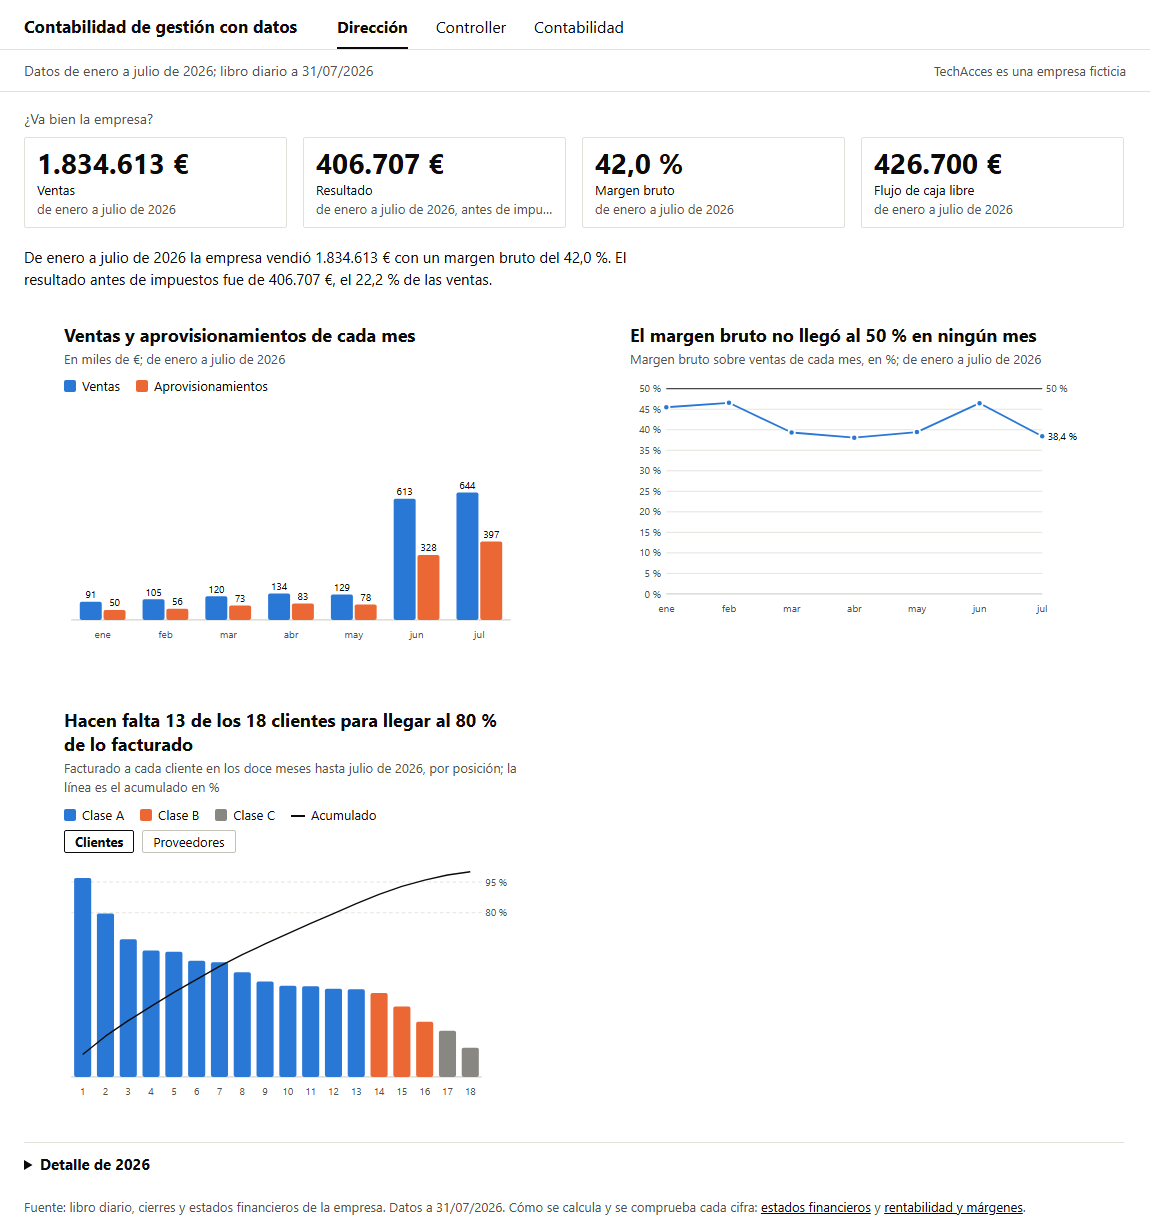
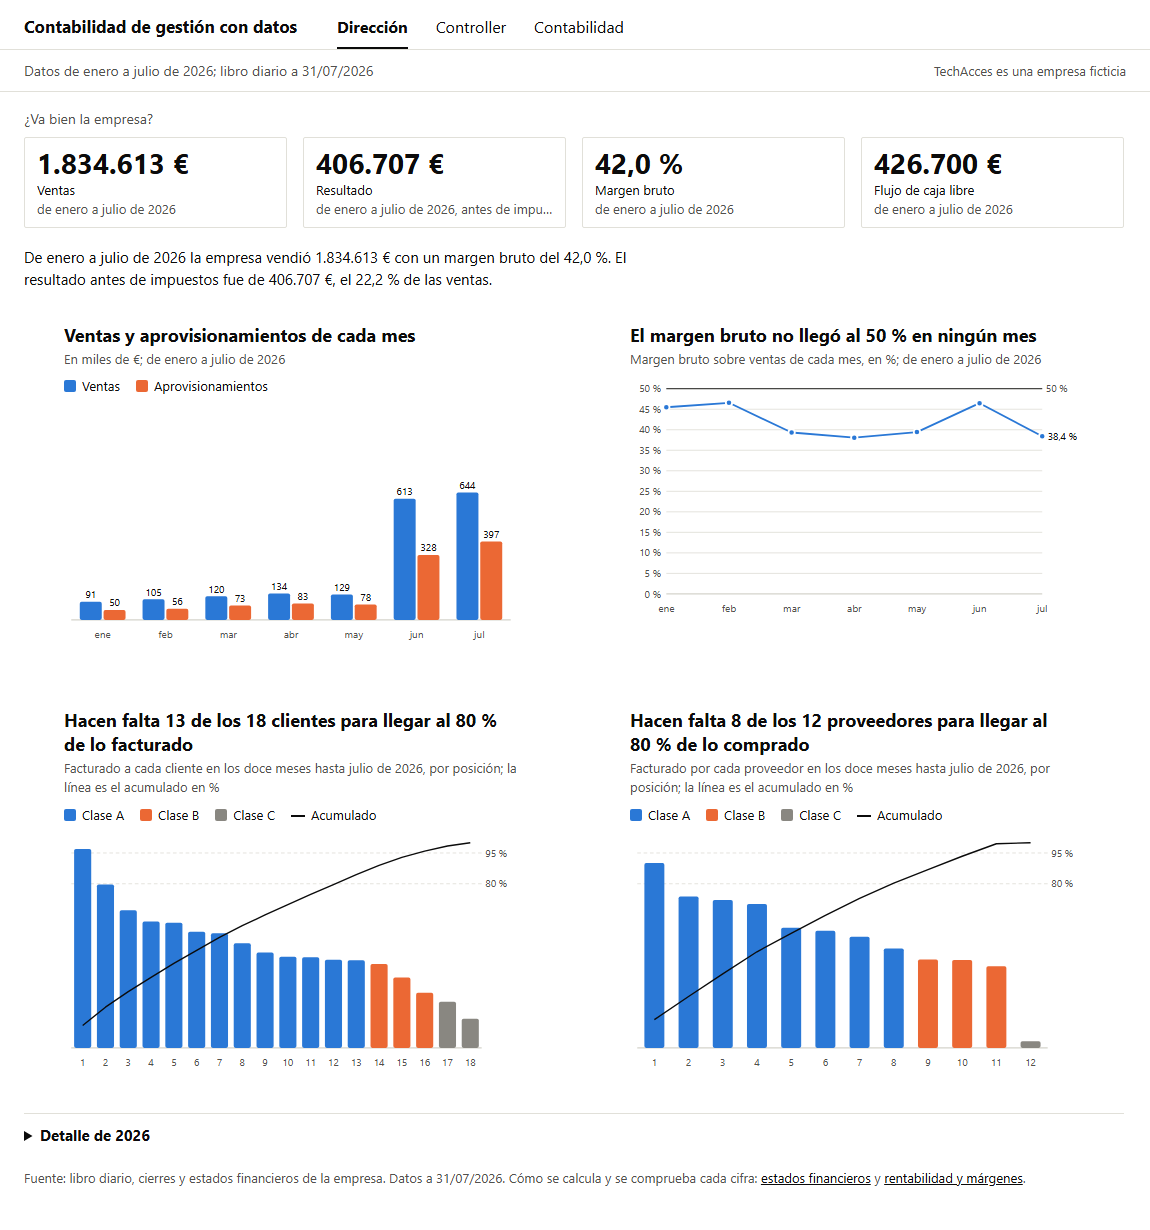
Web: Pareto de clientes y de proveedores lado a lado
El Pareto ocupaba solo la mitad de su fila y los proveedores quedaban detrás de un
botón. Ahora van los dos gráficos juntos, sin selector, como en Power BI. Imagen de
la vista de Dirección rehecha.

Changed region(s): [[0.0304, 0.6797, 0.8826, 0.9886], [0.5478, 0.5561, 0.913, 0.865]]

diff --git a/cuadro.js b/cuadro.js
@@ -1,5 +1,5 @@
 /* Cuadro de mando de contabilidad de gestión.
-   Lee los CSV de datos/ (los mismos que lee el informe de Power BI), dibuja tres pestañas y guarda la pestaña y el
+   Lee los CSV de datos/ (los mismos que lee el informe de Power BI), dibuja tres pestañas y guarda la pestaña
    en la dirección de la página. Sin librerías: SVG dibujado aquí. Todo texto que viene de los datos entra con
    textContent. */
 "use strict";
@@ -14,7 +14,7 @@ const FICHEROS = ["d_ventas_resultado", "d_margenes", "d_margen_bruto_mensual", 
 const ESTADO = { OK: "En orden", AVISO: "Aviso", SIN_DATO: "Sin dato" };
 
 let D = {};                       // los CSV leídos, por nombre
-const estado = { pestana: "direccion", lado: "clientes" };
+const estado = { pestana: "direccion" };
 const CLASE = { A: AZUL, B: NARANJA, C: GRIS };
 
 // ===== Números y textos a la española =====
@@ -276,7 +276,8 @@ function dibujarDireccion() {
     [{ nombre: "Margen bruto", color: AZUL, valores: meses.map(f => Number(f.margen_bruto_pct)) }],
     { unidad: " %", referencia: 50, rotuloReferencia: "50 %", rotularFinal: true, desdeCero: true });
 
-  dibujarPareto(a);
+  dibujarPareto(a, "clientes", "dir-g3");
+  dibujarPareto(a, "proveedores", "dir-g4");
 
   const det = document.getElementById("dir-detalle");
   det.replaceChildren(el("summary", {}, "Detalle de " + a));
@@ -296,23 +297,16 @@ function dibujarDireccion() {
     "En los doce meses hasta julio de " + a + ", el primer cliente reúne el " + pct(conc[0].peso_pct) + " de lo facturado y los cinco primeros, el " + pct(conc[4].peso_acumulado_pct) + "."));
 }
 
-// El Pareto de clientes o de proveedores, con su selector
-function dibujarPareto(a) {
-  const fig = document.getElementById("dir-g3");
-  const filas = D.d_pareto_terceros.filter(f => f.lado === estado.lado);
-  const nombre = estado.lado === "clientes" ? "Cliente" : "Proveedor";
+// El Pareto de un lado, clientes o proveedores, en su hueco
+function dibujarPareto(a, lado, id) {
+  const fig = document.getElementById(id);
+  const filas = D.d_pareto_terceros.filter(f => f.lado === lado);
+  const nombre = lado === "clientes" ? "Cliente" : "Proveedor";
   const deClaseA = filas.filter(f => f.clase === "A").length;
-  cabeceraGrafico(fig, "Hacen falta " + deClaseA + " de los " + filas.length + " " + estado.lado + " para llegar al 80 % de lo facturado",
-    (estado.lado === "clientes" ? "Facturado a cada cliente" : "Facturado por cada proveedor") + " en los doce meses hasta julio de " + a +
+  cabeceraGrafico(fig, "Hacen falta " + deClaseA + " de los " + filas.length + " " + lado + " para llegar al 80 % de lo " + (lado === "clientes" ? "facturado" : "comprado"),
+    (lado === "clientes" ? "Facturado a cada cliente" : "Facturado por cada proveedor") + " en los doce meses hasta julio de " + a +
     ", por posición; la línea es el acumulado en %",
     [{ nombre: "Clase A", color: AZUL }, { nombre: "Clase B", color: NARANJA }, { nombre: "Clase C", color: GRIS }, { nombre: "Acumulado", color: "#0b0b0b", raya: true }]);
-  const selector = el("p", { class: "selector", role: "group", "aria-label": "Qué terceros" });
-  for (const lado of ["clientes", "proveedores"]) {
-    const b = el("button", { type: "button", "aria-pressed": String(lado === estado.lado) }, lado === "clientes" ? "Clientes" : "Proveedores");
-    b.addEventListener("click", () => { estado.lado = lado; dibujarPareto(a); });
-    selector.append(b);
-  }
-  fig.append(selector);
   paretoGrafico(fig, filas, nombre);
 }
 

diff --git a/index.html b/index.html
@@ -5,7 +5,7 @@
 <meta name="viewport" content="width=device-width, initial-scale=1">
 <title>Contabilidad de gestión con datos</title>
 <meta name="description" content="Cuadro de mando de contabilidad de gestión de una empresa ficticia: dirección, controller y contabilidad, con cada cifra comprobada por otra vía.">
-<link rel="stylesheet" href="estilo.css?v=4">
+<link rel="stylesheet" href="estilo.css?v=5">
 </head>
 <body>
 <header>
@@ -32,6 +32,7 @@
       <figure class="grafico" id="dir-g1"></figure>
       <figure class="grafico" id="dir-g2"></figure>
       <figure class="grafico" id="dir-g3"></figure>
+      <figure class="grafico" id="dir-g4"></figure>
     </div>
     <details id="dir-detalle"><summary>Detalle por año</summary></details>
     <p class="fuente">Fuente: libro diario, cierres y estados financieros de la empresa. Datos a 31/07/2026. Cómo se calcula y se comprueba cada cifra: <a href="https://github.com/jleonceo/management-accounting-analytics/blob/main/informes/01_estados_financieros.md">estados financieros</a> y <a href="https://github.com/jleonceo/management-accounting-analytics/blob/main/informes/02_rentabilidad_y_margenes.md">rentabilidad y márgenes</a>.</p>
@@ -59,6 +60,6 @@
 </main>
 
 <div class="etiqueta-dato" id="etiqueta" role="tooltip" hidden></div>
-<script src="cuadro.js?v=10"></script>
+<script src="cuadro.js?v=11"></script>
 </body>
 </html>

diff --git a/estilo.css b/estilo.css
@@ -68,12 +68,6 @@ th.num, td.num { text-align: right; }
 tr.total td { font-weight: 700; border-top: 1px solid #0b0b0b; }
 td.aviso { font-weight: 700; }
 
-/* Selector del Pareto: dos botones planos; el elegido, en negrita y con borde oscuro. */
-.selector { display: flex; gap: 8px; margin: 0 0 6px; }
-.selector button { font: 13px "Segoe UI", system-ui, sans-serif; background: #ffffff; border: 1px solid #c3c2b7; border-radius: 2px; padding: 2px 10px; cursor: pointer; color: #0b0b0b; }
-.selector button[aria-pressed="true"] { font-weight: 700; border-color: #0b0b0b; }
-.selector button:focus-visible { outline: 2px solid #0b0b0b; outline-offset: 2px; }
-
 .descarga { margin: 10px 0 0; }
 .descarga button { font: 13px "Segoe UI", system-ui, sans-serif; background: #ffffff; border: 1px solid #c3c2b7; border-radius: 2px; padding: 3px 10px; cursor: pointer; }
 
